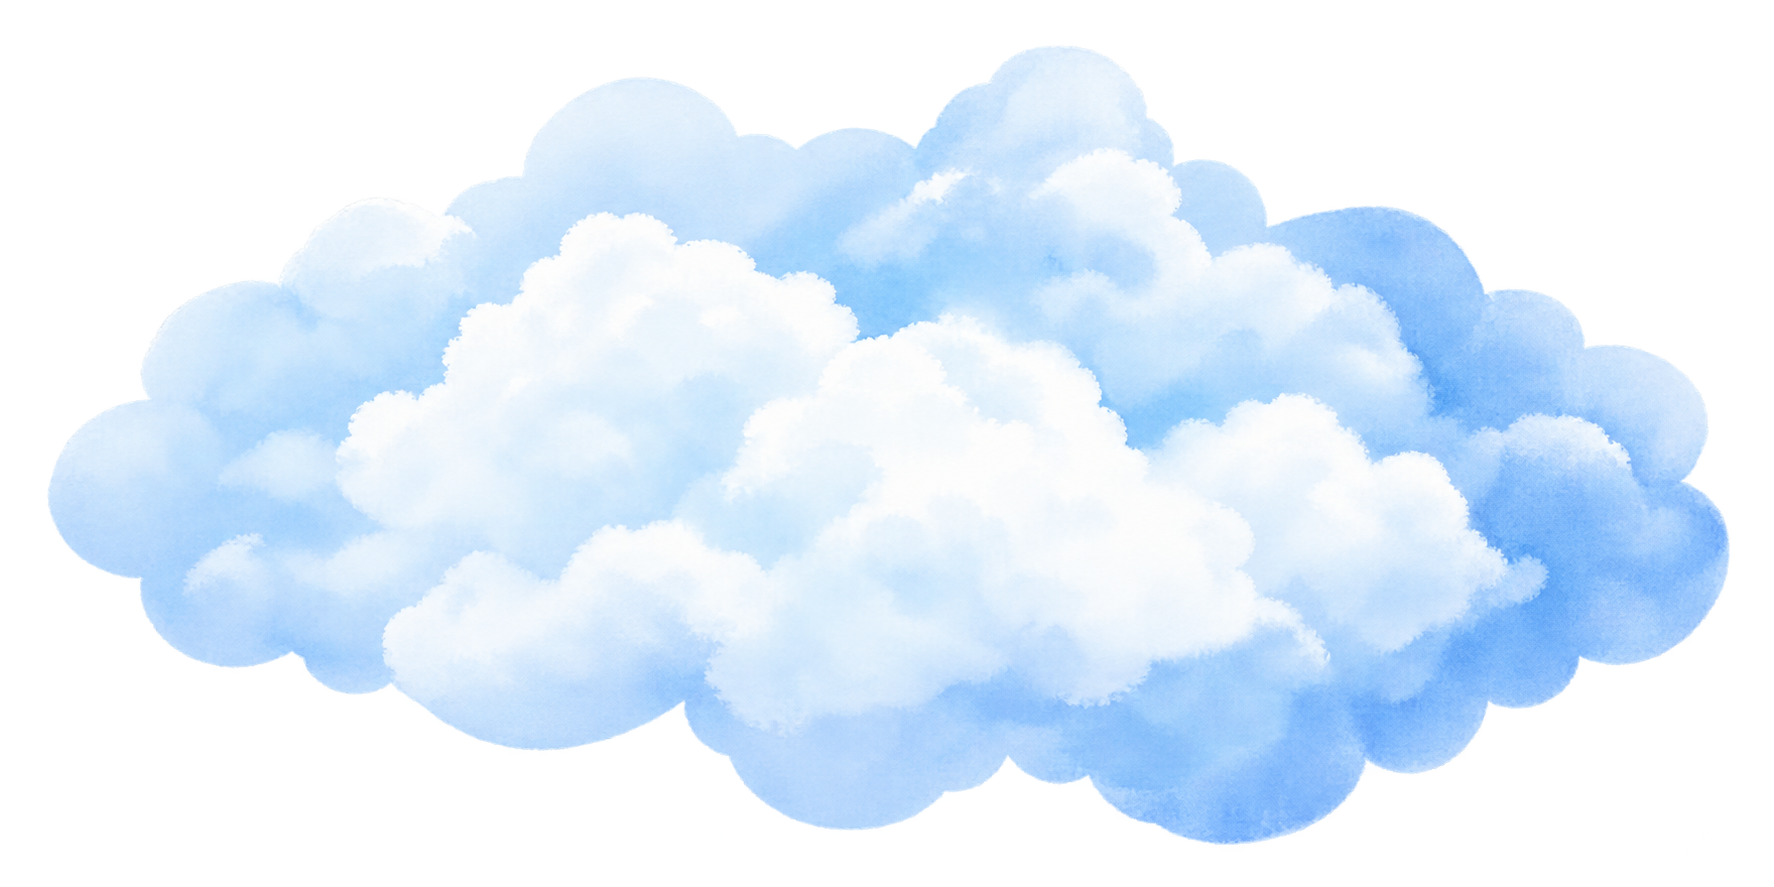
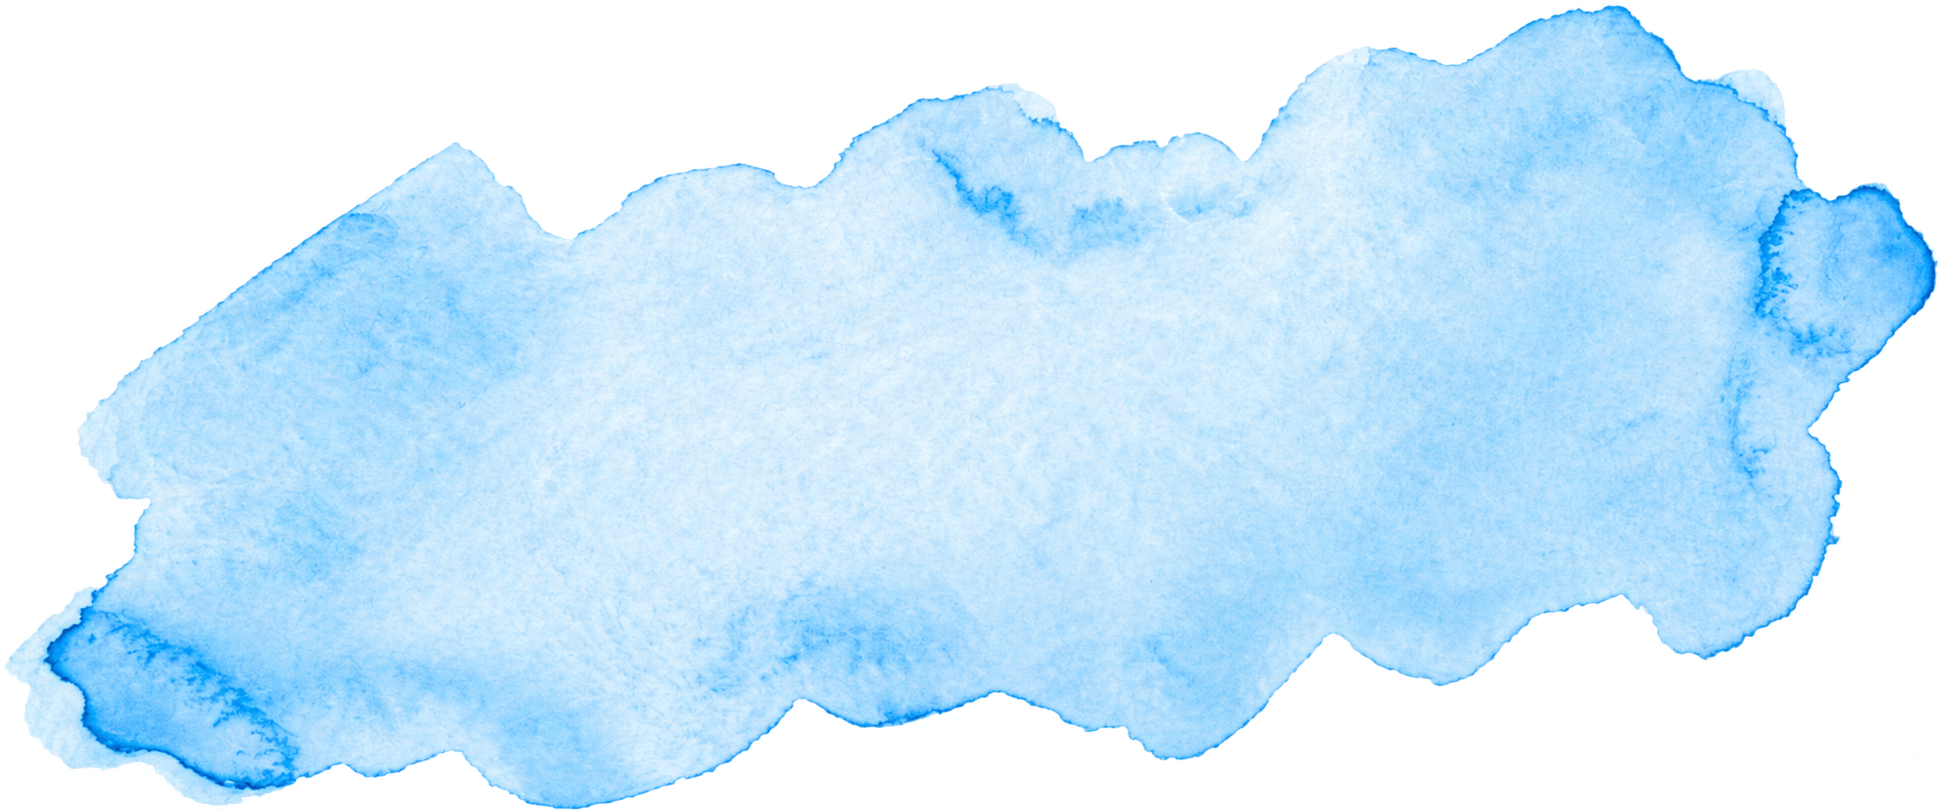
feat(hero): update hero component styles and transition effects

diff --git a/src/components/home/hero.css b/src/components/home/hero.css
@@ -29,7 +29,7 @@
   letter-spacing: var(--letter-spacing-display);
 }
 
-.hero__title h1 > span {
+.hero__title h1>span {
   display: block;
 }
 
@@ -62,7 +62,7 @@
   padding-inline: var(--space-2);
 }
 
-.hero__body > p {
+.hero__body>p {
   min-width: 0;
   max-width: var(--measure-copy);
   color: var(--color-text-muted);
@@ -95,8 +95,7 @@
 .hero__media::before {
   position: absolute;
   z-index: -1;
-  inset: var(--space-6) calc(-1 * var(--space-3)) calc(-1 * var(--space-3))
-    var(--space-6);
+  inset: var(--space-6) calc(-1 * var(--space-3)) calc(-1 * var(--space-3)) var(--space-6);
   border-radius: var(--radius-xl);
   background: var(--color-surface-warm);
   content: '';
@@ -129,7 +128,7 @@
 
 .hero__transition {
   position: absolute;
-  z-index: var(--z-content);
+  z-index: auto; /* CORREGIDO: Evita el contexto de apilamiento cerrado */
   inset-inline: 0;
   inset-block-end: 0;
   block-size: 3.5rem;
@@ -139,7 +138,7 @@
 
 .hero__transition-line {
   position: absolute;
-  z-index: 2;
+  z-index: calc(var(--z-content) + 2); /* CORREGIDO: Delega el z-index */
   inset-block-start: 0;
   inset-inline: 0;
   inline-size: 100%;
@@ -162,11 +161,15 @@
 
 .hero__transition-heart {
   position: absolute;
-  z-index: 3;
+  z-index: calc(var(--z-content) + 3); /* CORREGIDO: Delega el z-index */
   inset-block-start: 0.15rem;
   inset-inline-start: 52%;
   inline-size: 1.7rem;
   transform: translateX(-50%) rotate(-8deg);
+}
+
+.hero__transition-sparkle {
+  display: none;
 }
 
 @media (min-width: 48rem) {
@@ -209,11 +212,9 @@
     overflow: visible;
     padding-block: 0;
     background:
-      linear-gradient(
-        90deg,
+      linear-gradient(90deg,
         color-mix(in srgb, var(--color-canvas) 97%, transparent) 0 50%,
-        transparent 50% 100%
-      ),
+        transparent 50% 100%),
       color-mix(in srgb, var(--color-canvas) 84%, transparent);
   }
 
@@ -235,11 +236,8 @@
   .hero__title {
     align-self: start;
     padding-block-start: clamp(var(--space-8), 3.4vw, var(--space-12));
-    padding-inline: max(
-        var(--gutter),
-        calc((100vw - var(--container-visual)) / 2 + var(--space-16))
-      )
-      clamp(var(--space-8), 4vw, var(--space-16));
+    padding-inline: max(var(--gutter),
+        calc((100vw - var(--container-visual)) / 2 + var(--space-16))) clamp(var(--space-8), 4vw, var(--space-16));
   }
 
   .hero__title h1 {
@@ -264,20 +262,18 @@
   .hero__body {
     align-self: start;
     gap: var(--space-6);
-    padding-inline: max(
-        var(--gutter),
-        calc((100vw - var(--container-visual)) / 2 + var(--space-16))
-      )
-      clamp(var(--space-8), 4vw, var(--space-16));
+    padding-inline: max(var(--gutter),
+        calc((100vw - var(--container-visual)) / 2 + var(--space-16))) clamp(var(--space-8), 4vw, var(--space-16));
   }
 
-  .hero__body > p {
+  .hero__body>p {
     max-width: 42ch;
     line-height: 1.55;
   }
 
   .hero__media {
     position: absolute;
+    z-index: var(--z-base);
     inset-block-start: -1.75rem;
     inset-block-end: 0;
     inset-inline-start: 50%;
@@ -334,12 +330,17 @@
   }
 
   .hero__transition {
+    position: absolute;
+    z-index: auto; /* CORREGIDO: Evita el contexto de apilamiento cerrado */
+    inset-inline: 0;
+    inset-block-end: 0;
     block-size: calc(var(--space-16) + var(--space-8));
+    pointer-events: none;
   }
 
   .hero__transition-cutout {
     position: absolute;
-    z-index: 0;
+    z-index: var(--z-content); /* CORREGIDO: Posiciona la base sólida */
     inset: 0;
     display: block;
     inline-size: 100%;
@@ -350,34 +351,59 @@
     fill: var(--color-canvas);
   }
 
-  .hero__transition-line {
-    block-size: 3.5rem;
+  .hero__transition-cloud {
+    mix-blend-mode: multiply;
   }
 
   .hero__transition .hero__transition-cloud {
     position: absolute;
-    z-index: 1;
-    inset-block-start: var(--space-2);
-    inset-inline-end: 0;
+    z-index: calc(var(--z-content) + 1); /* CORREGIDO: Mantiene la mancha sobre el recorte y se fusiona hacia abajo */
+    inset-block-start: clamp(-3rem, -12.5vw, -1rem);
+    inset-inline-end: clamp(-41rem, -13vw, -1rem);
     display: block;
-    inline-size: clamp(28rem, 42vw, 36rem);
+    inline-size: clamp(32rem, 46vw, 52rem);
     block-size: auto;
-    aspect-ratio: 2 / 1;
-    opacity: 0.68;
-    -webkit-mask-image: linear-gradient(
-      to bottom,
-      transparent 0,
-      #000 10%,
-      #000 82%,
-      transparent 100%
-    );
-    mask-image: linear-gradient(
-      to bottom,
-      transparent 0,
-      #000 10%,
-      #000 82%,
-      transparent 100%
-    );
+    opacity: 0.85;
+    pointer-events: none;
     transform: none;
   }
+
+  .hero__transition-line {
+    position: absolute;
+    z-index: calc(var(--z-content) + 2); /* CORREGIDO */
+    block-size: 3.5rem;
+  }
+
+  .hero__transition-sparkle {
+    position: absolute;
+    z-index: calc(var(--z-content) + 4); /* CORREGIDO */
+    inset-block-start: clamp(3.2rem, 4.2vw, 4.8rem);
+    inset-inline-end: clamp(20rem, 32vw, 38rem);
+    display: block;
+    inline-size: clamp(1.3rem, 1.7vw, 2rem);
+    color: var(--color-decoration-peach);
+  }
+  /* 1. Rompemos la caja contenedora a la fuerza en todas las resoluciones */
+.hero__transition {
+  z-index: auto !important;
+  isolation: auto !important;
+}
+
+/* 2. Definimos el fondo opaco por encima de la fotografía */
+.hero__transition-cutout {
+  z-index: 900 !important;
+}
+
+/* 3. Colocamos la mancha por encima del recorte, libre para fusionarse hacia abajo */
+.hero__transition .hero__transition-cloud,
+.hero__transition-cloud {
+  z-index: 901 !important;
+  mix-blend-mode: multiply !important;
+  opacity: 0.85 !important;
+}
+
+/* 4. Mantenemos las decoraciones por encima de la mancha */
+.hero__transition-line { z-index: 902 !important; }
+.hero__transition-heart { z-index: 903 !important; }
+.hero__transition-sparkle { z-index: 904 !important; }
 }

diff --git a/tests/hero.test.ts b/tests/hero.test.ts
@@ -80,8 +80,8 @@ describe('approved home hero', () => {
     expect(component).toContain('src={watercolorCloud}');
     expect(component).toContain('alt="Nube azul de acuarela decorativa."');
     expect(component).toContain('format="webp"');
-    expect(cloud.subarray(16, 24).readUInt32BE(0)).toBe(1774);
-    expect(cloud.subarray(16, 24).readUInt32BE(4)).toBe(887);
+    expect(cloud.subarray(16, 24).readUInt32BE(0)).toBe(1939);
+    expect(cloud.subarray(16, 24).readUInt32BE(4)).toBe(811);
     expect(cloud[25]).toBe(6);
     expect(component).toContain('class="hero__transition-heart"');
     expect(styles).toContain('fill: var(--color-canvas)');

diff --git a/src/components/home/home-composition.css b/src/components/home/home-composition.css
@@ -16,9 +16,17 @@
 }
 
 @media (min-width: 64rem) {
+  .hero {
+    z-index: var(--z-base);
+  }
+
+  .hero__transition {
+    z-index: var(--z-base);
+  }
+
   .taxonomy-discovery-section {
     position: relative;
-    z-index: var(--z-raised);
+    z-index: var(--z-content);
     padding-block: var(--space-8) var(--space-16);
   }
 

diff --git a/ROADMAP.md b/ROADMAP.md
@@ -1489,6 +1489,14 @@ y `git diff --check`: PASS. Se resolvió el error local de servidor que mostraba
 `FailedToLoadModuleSSR`: coexistían un proceso Vite fallido por IPv6 y una
 previsualización por IPv4 en el mismo puerto. Tras reiniciar exclusivamente esos
 procesos, `http://localhost:4321/` y `http://127.0.0.1:4321/` responden 200.
+El ajuste posterior solicitado sitúa la nube de transición bajo los ítems de
+descubrimiento, sobre el fondo, con una escala mayor y desplazamiento a la
+derecha para que se introduzca bajo la fotografía del Hero; `npm run typecheck`
+y `npm run build`: PASS.
+La recalibración posterior baja esa nube por completo tras el Hero, la desplaza
+más a la derecha y limita su altura como franja acuarelada para que termine
+antes de las cards; Prettier específico, `npm run typecheck` y servidor local
+(HTTP 200): PASS.
 Pendiente: QA comparativa manual a 1280/1440/1920. No avanzar a M8.9.11 hasta
 completar esas capturas y revisión.
 
